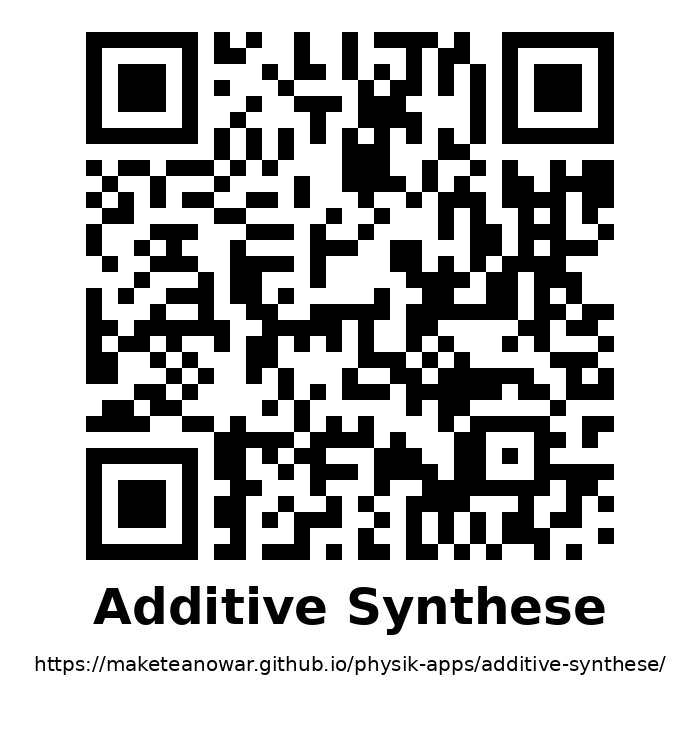
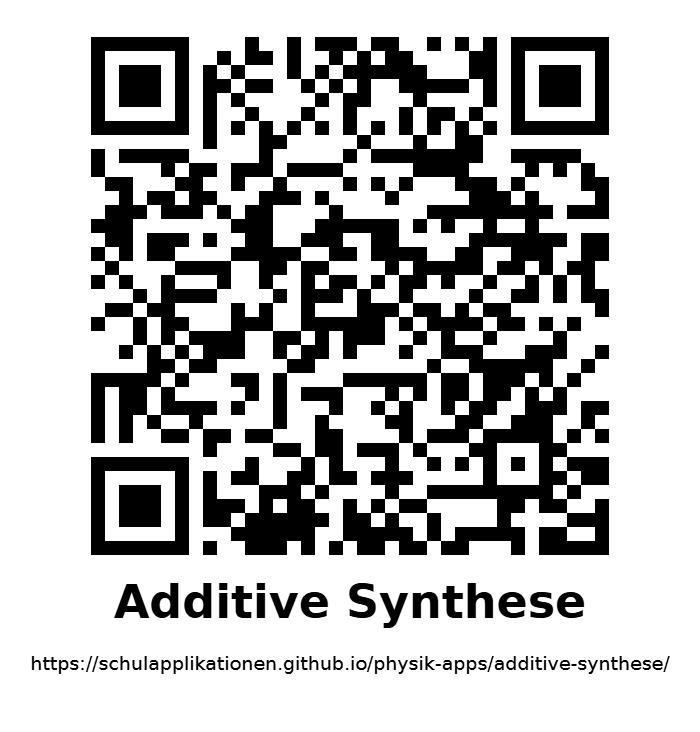
GitHub-Name: Links und QR-Codes auf Schulapplikationen umgestellt

Changed region(s): [[0.12, 0.0301, 0.9, 0.8716], [0.03, 0.9016, 0.96, 0.9317]]

diff --git a/README.md b/README.md
@@ -1,18 +1,18 @@
 # physik-apps
 
-Interaktive Apps für den Physik- und NWT-Unterricht. Startseite: https://maketeanowar.github.io/physik-apps/
+Interaktive Apps für den Physik- und NWT-Unterricht. Startseite: https://schulapplikationen.github.io/physik-apps/
 
 | Ordner | App | Stand |
 |---|---|---|
-| `bewegungslabor/` | [Bewegungslabor](https://maketeanowar.github.io/physik-apps/bewegungslabor/) | 2026-10-02 |
-| `raumfluglabor/` | [Raumfluglabor](https://maketeanowar.github.io/physik-apps/raumfluglabor/) | 2026-10-18 |
-| `lehrertool-lite/` | [Lehrertool Lite](https://maketeanowar.github.io/physik-apps/lehrertool-lite/) | 2026-10-04 |
-| `feldlabor/` | [Feldlabor](https://maketeanowar.github.io/physik-apps/feldlabor/) | 2026-10-04 |
-| `wellenlabor/` | [Wellenlabor](https://maketeanowar.github.io/physik-apps/wellenlabor/) | 2026-10-16 |
-| `additive-synthese/` | [Additive Synthese](https://maketeanowar.github.io/physik-apps/additive-synthese/) | 2026-09-29 |
-| `geige-hoervergleich/` | [Geige im Hörvergleich](https://maketeanowar.github.io/physik-apps/geige-hoervergleich/) | 2026-09-29 |
-| `steckplatinen-ansicht/` | [Steckplatinen-Ansicht](https://maketeanowar.github.io/physik-apps/steckplatinen-ansicht/) | 2026-09-09 |
-| `signalkette-wheatstone/` | [Signalkette Wheatstone-Brücke](https://maketeanowar.github.io/physik-apps/signalkette-wheatstone/) | 2026-09-09 |
+| `bewegungslabor/` | [Bewegungslabor](https://schulapplikationen.github.io/physik-apps/bewegungslabor/) | 2026-10-02 |
+| `raumfluglabor/` | [Raumfluglabor](https://schulapplikationen.github.io/physik-apps/raumfluglabor/) | 2026-10-18 |
+| `lehrertool-lite/` | [Lehrertool Lite](https://schulapplikationen.github.io/physik-apps/lehrertool-lite/) | 2026-10-04 |
+| `feldlabor/` | [Feldlabor](https://schulapplikationen.github.io/physik-apps/feldlabor/) | 2026-10-04 |
+| `wellenlabor/` | [Wellenlabor](https://schulapplikationen.github.io/physik-apps/wellenlabor/) | 2026-10-16 |
+| `additive-synthese/` | [Additive Synthese](https://schulapplikationen.github.io/physik-apps/additive-synthese/) | 2026-09-29 |
+| `geige-hoervergleich/` | [Geige im Hörvergleich](https://schulapplikationen.github.io/physik-apps/geige-hoervergleich/) | 2026-09-29 |
+| `steckplatinen-ansicht/` | [Steckplatinen-Ansicht](https://schulapplikationen.github.io/physik-apps/steckplatinen-ansicht/) | 2026-09-09 |
+| `signalkette-wheatstone/` | [Signalkette Wheatstone-Brücke](https://schulapplikationen.github.io/physik-apps/signalkette-wheatstone/) | 2026-09-09 |
 
 ## Aufbau
 

diff --git a/raumfluglabor/README.md b/raumfluglabor/README.md
@@ -11,7 +11,7 @@ Für Tablets im Querformat gebaut (iPad 10./11. Gen.): feste Bühne, die sich an
 - **Labor:** jeder Flug zum Auswerten (Zeitleiste, Kraftpfeile, s-, v-, a-, F-, p-Diagramme, Abschnitt messen, Nachrechnen, Messwerte); freier Flug 1D/2D, Flugplan, Stoß, Rückstoß, Bonus Lichtgeschwindigkeit.
 - **Quiz:** Flug ↔ Diagramm zuordnen, Denkfehler, Rechnen, Diagramm nachfliegen.
 
-- **Live:** https://maketeanowar.github.io/physik-apps/raumfluglabor/
+- **Live:** https://schulapplikationen.github.io/physik-apps/raumfluglabor/
 - **QR-Code für die Klasse:** `qr_raumfluglabor.png`
 - **Aktuelle Version:** `index.html` (Stand 2026-10-18, Fassung 02: Lichtschranke statt Ring, Massepunkt-Ansicht, feste Kamera)
 - **Versionen:** Ordner `versionen/` – jede Fassung als `JJJJ-MM-TT_NN_raumfluglabor.html`, die neueste ist identisch mit `index.html`.

diff --git a/wellenlabor/README.md b/wellenlabor/README.md
@@ -2,7 +2,7 @@
 
 Physik Q2 Wellen: Simulationen zu AB 01–10 – Was ist eine Welle?, harmonische Wellen, Wellengleichung, Überlagerung, zwei Kreiswellen, Huygens'sches Prinzip, stehende Wellen, elektromagnetisches Spektrum, Doppelspalt, Beugungsgitter.
 
-- **Live:** https://maketeanowar.github.io/physik-apps/wellenlabor/
+- **Live:** https://schulapplikationen.github.io/physik-apps/wellenlabor/
 - **QR-Code für die Klasse:** `qr_wellenlabor.png`
 - **Aktuelle Version:** `index.html` (Stand 2026-10-16)
 - **Versionen:** Ordner `versionen/` – jede Fassung als `JJJJ-MM-TT_NN_wellenlabor.html`, die neueste ist identisch mit `index.html`.

diff --git a/lehrertool-lite/README.md b/lehrertool-lite/README.md
@@ -2,7 +2,7 @@
 
 Mündliche Mitarbeit per Sitzplan, Noten und Termine – abgespeckte Fassung, läuft auch auf dem iPad. Ohne Daten: Kurse und Namen legt jede Lehrkraft selbst an.
 
-- **Live:** https://maketeanowar.github.io/physik-apps/lehrertool-lite/
+- **Live:** https://schulapplikationen.github.io/physik-apps/lehrertool-lite/
 - **QR-Code für die Klasse:** `qr_lehrertool-lite.png`
 - **Aktuelle Version:** `index.html` (Stand 2026-10-04)
 - **Versionen:** Ordner `versionen/` – jede Fassung als `JJJJ-MM-TT_NN_lehrertool-lite.html`, die neueste ist identisch mit `index.html`.

diff --git a/signalkette-wheatstone/README.md b/signalkette-wheatstone/README.md
@@ -2,7 +2,7 @@
 
 NWT Fahrrad-Trittleistungsmessung: Schaltplan der Messkette Brücke → HX711 → Arduino → LCD mit Bauteil- und Anschlussliste.
 
-- **Live:** https://maketeanowar.github.io/physik-apps/signalkette-wheatstone/
+- **Live:** https://schulapplikationen.github.io/physik-apps/signalkette-wheatstone/
 - **QR-Code für die Klasse:** `qr_signalkette-wheatstone.png`
 - **Aktuelle Version:** `index.html` (Stand 2026-09-09)
 - **Versionen:** Ordner `versionen/` – jede Fassung als `JJJJ-MM-TT_NN_signalkette-wheatstone.html`, die neueste ist identisch mit `index.html`.

diff --git a/steckplatinen-ansicht/README.md b/steckplatinen-ansicht/README.md
@@ -2,7 +2,7 @@
 
 NWT Fahrrad-Trittleistungsmessung: komplette Messkette (Arduino, HX711, DMS-Brücke, LCD) als Steckbrett-Ansicht.
 
-- **Live:** https://maketeanowar.github.io/physik-apps/steckplatinen-ansicht/
+- **Live:** https://schulapplikationen.github.io/physik-apps/steckplatinen-ansicht/
 - **QR-Code für die Klasse:** `qr_steckplatinen-ansicht.png`
 - **Aktuelle Version:** `index.html` (Stand 2026-09-09)
 - **Versionen:** Ordner `versionen/` – jede Fassung als `JJJJ-MM-TT_NN_steckplatinen-ansicht.html`, die neueste ist identisch mit `index.html`.

diff --git a/additive-synthese/README.md b/additive-synthese/README.md
@@ -2,7 +2,7 @@
 
 Akustik: Sinustöne überlagern, Spektrum, Tastatur, Klanglabor zum Nachbauen echter Instrumentenklänge (VSCO-2, CC0).
 
-- **Live:** https://maketeanowar.github.io/physik-apps/additive-synthese/
+- **Live:** https://schulapplikationen.github.io/physik-apps/additive-synthese/
 - **QR-Code für die Klasse:** `qr_additive-synthese.png`
 - **Aktuelle Version:** `index.html` (Stand 2026-09-29)
 - **Versionen:** Ordner `versionen/` – jede Fassung als `JJJJ-MM-TT_NN_additive-synthese.html`, die neueste ist identisch mit `index.html`.

diff --git a/geige-hoervergleich/README.md b/geige-hoervergleich/README.md
@@ -2,7 +2,7 @@
 
 Zusatz zur Additiven Synthese: echte Geige und sechs Nachbauten zum Anhören (Aufnahme VSCO-2, CC0).
 
-- **Live:** https://maketeanowar.github.io/physik-apps/geige-hoervergleich/
+- **Live:** https://schulapplikationen.github.io/physik-apps/geige-hoervergleich/
 - **QR-Code für die Klasse:** `qr_geige-hoervergleich.png`
 - **Aktuelle Version:** `index.html` (Stand 2026-09-29)
 - **Versionen:** Ordner `versionen/` – jede Fassung als `JJJJ-MM-TT_NN_geige-hoervergleich.html`, die neueste ist identisch mit `index.html`.

diff --git a/feldlabor/README.md b/feldlabor/README.md
@@ -2,7 +2,7 @@
 
 J1 Elektrisches Feld: Ladungen und Feldlinien, Äquipotenziallinien, Plattenkondensator mit Schweben, Grießkörner-in-Öl-Simulation.
 
-- **Live:** https://maketeanowar.github.io/physik-apps/feldlabor/
+- **Live:** https://schulapplikationen.github.io/physik-apps/feldlabor/
 - **QR-Code für die Klasse:** `qr_feldlabor.png`
 - **Aktuelle Version:** `index.html` (Stand 2026-10-04)
 - **Versionen:** Ordner `versionen/` – jede Fassung als `JJJJ-MM-TT_NN_feldlabor.html`, die neueste ist identisch mit `index.html`.
